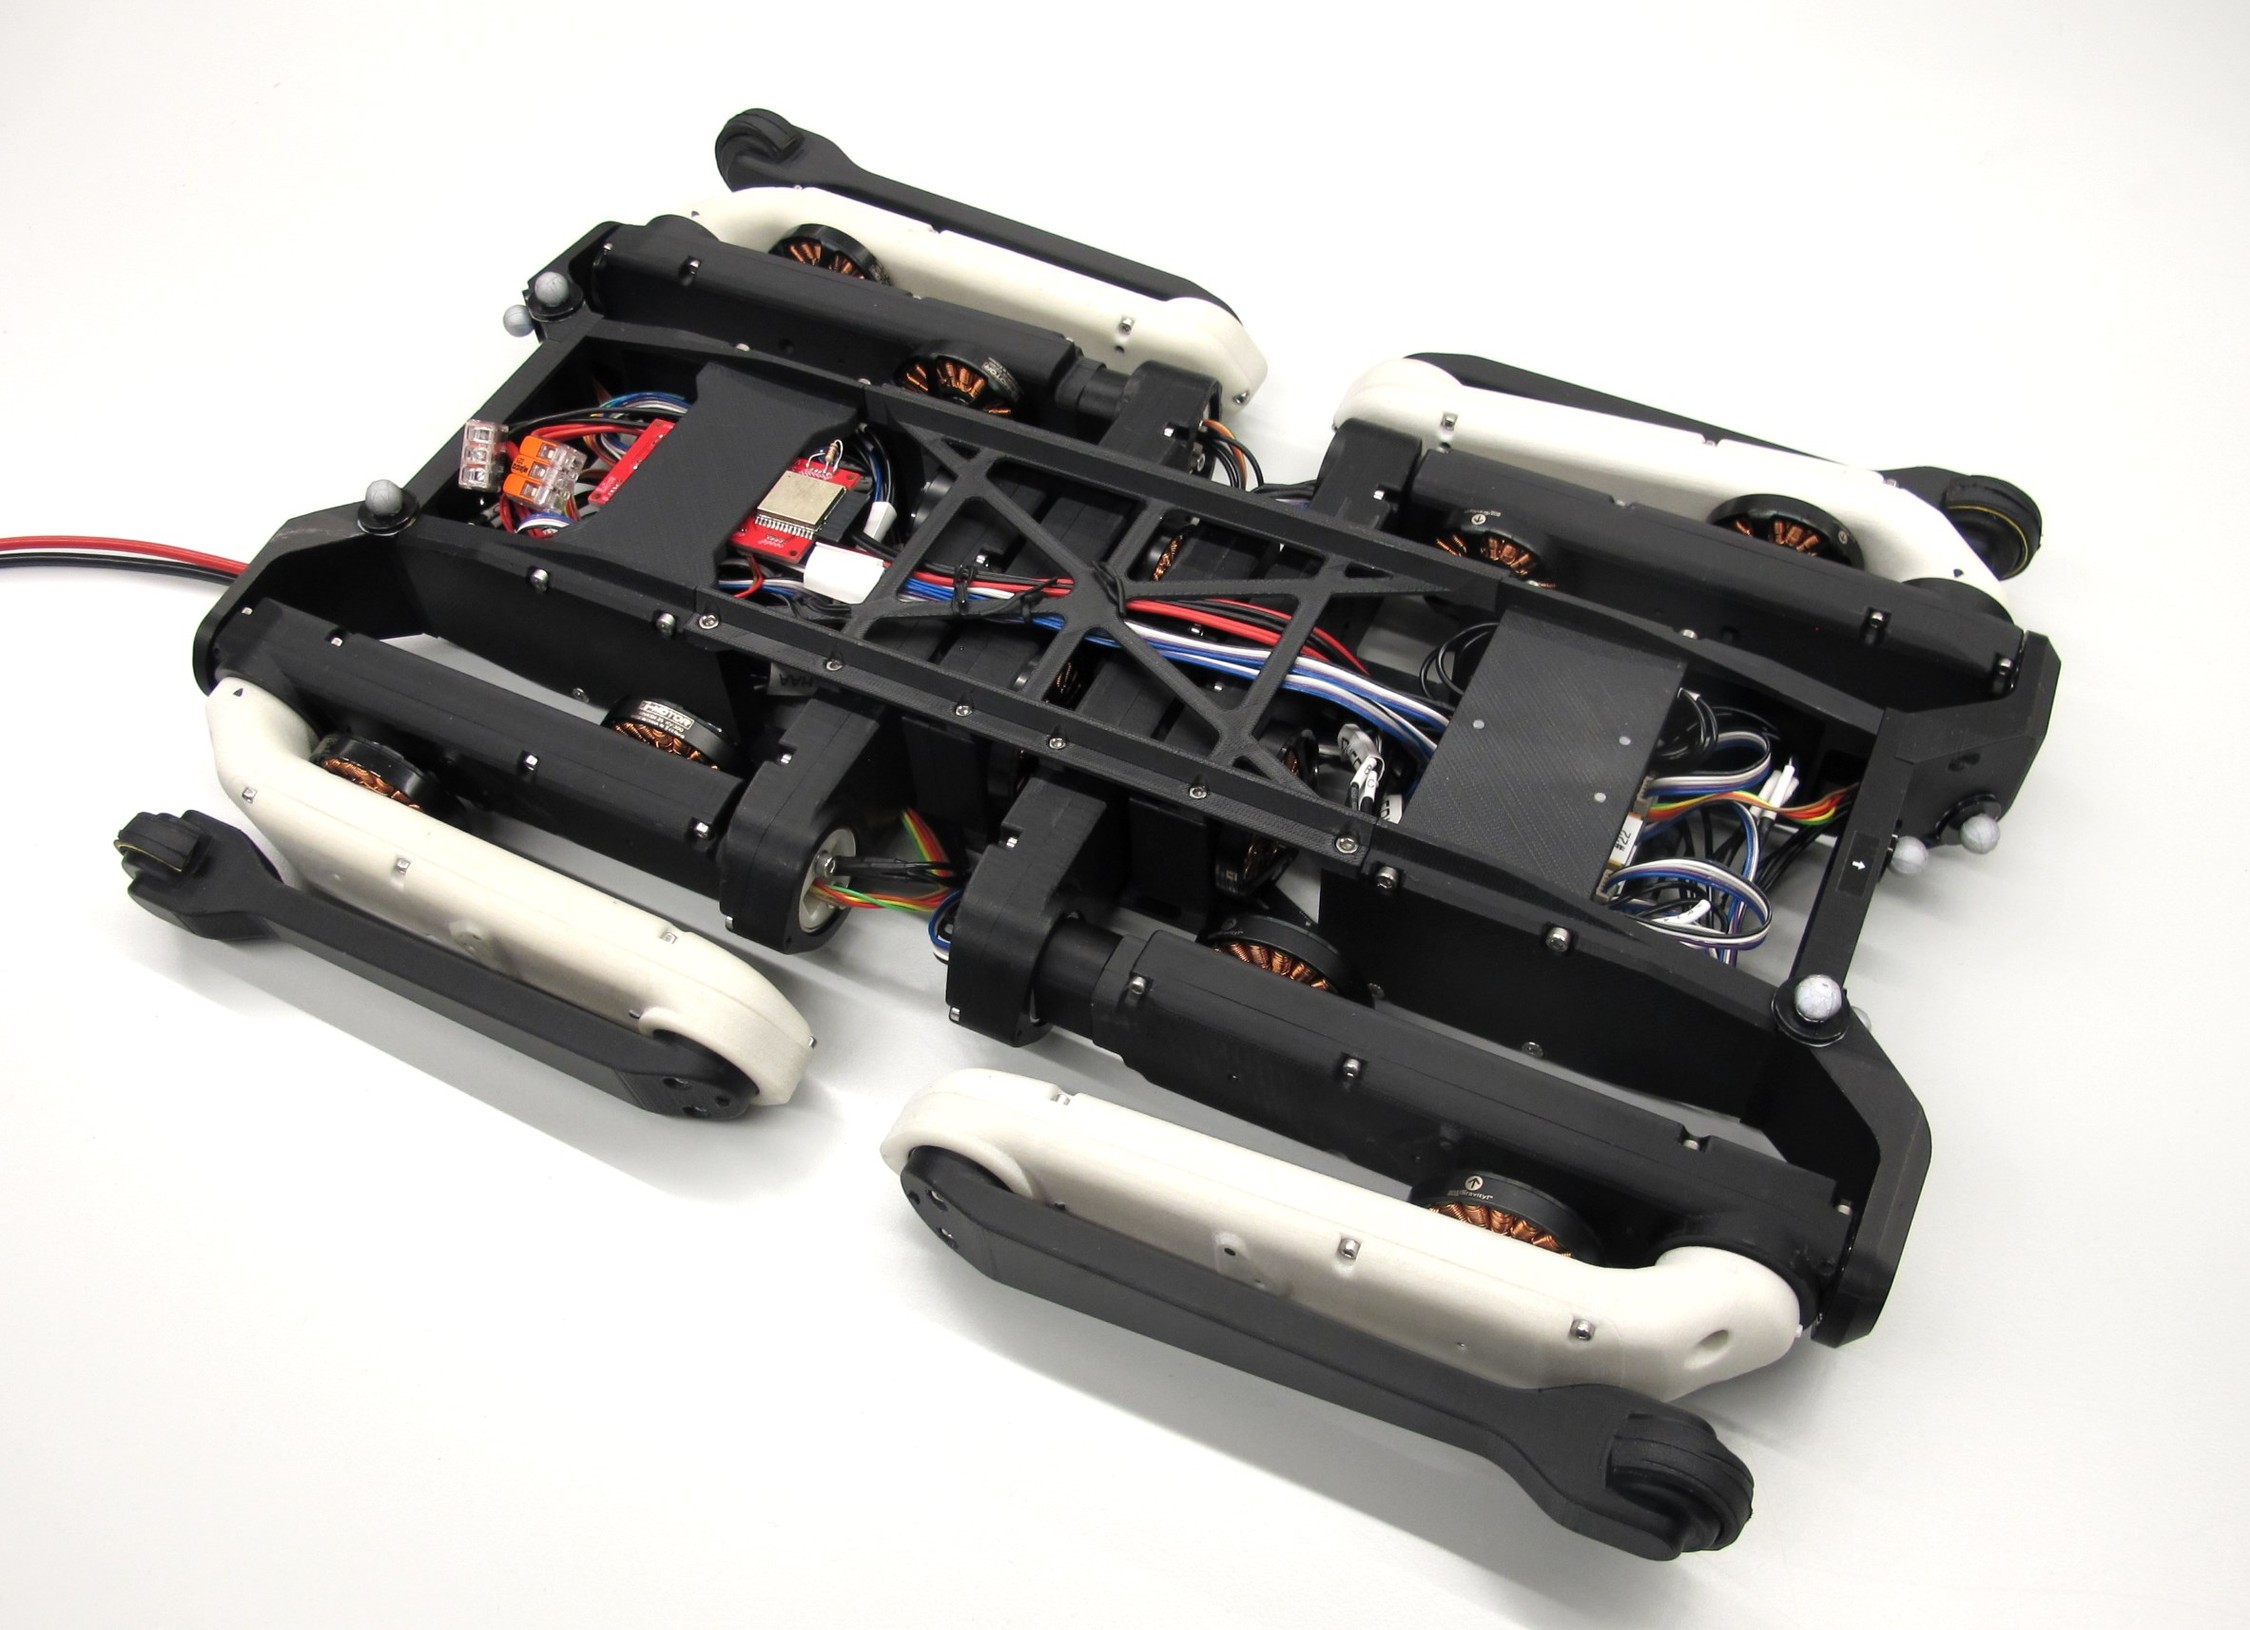
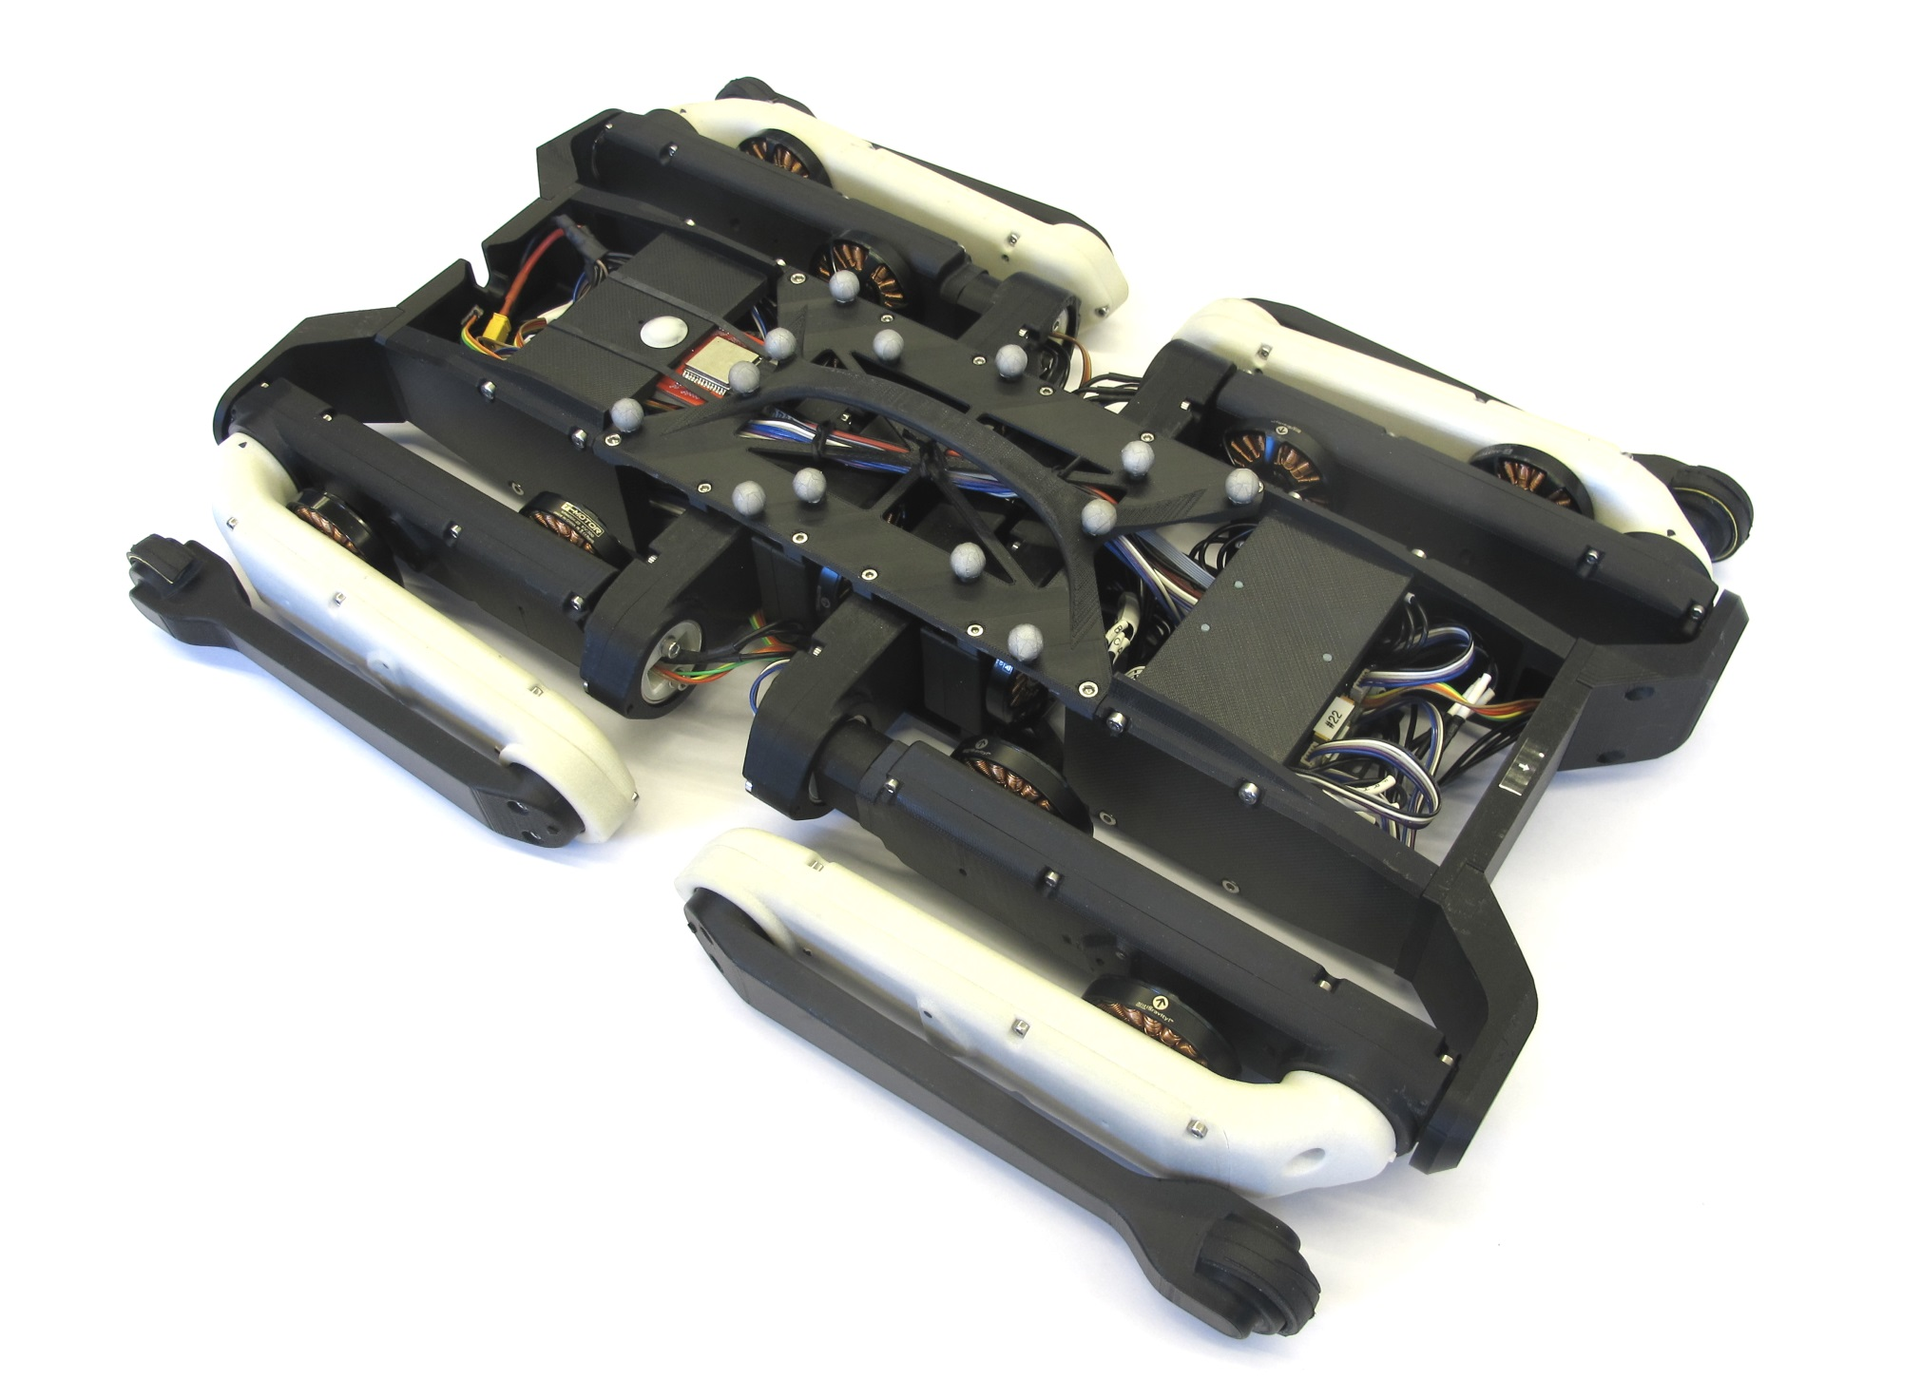
Updating pictures

diff --git a/mechanics/quadruped_robot_12dof_v1/README.md b/mechanics/quadruped_robot_12dof_v1/README.md
@@ -19,7 +19,8 @@
 ## Pictures
 <img src="images/solo_12_mechanics_1.jpg" width="400"><br>*12dof quadruped without electronics*<br>  
 <img src="images/solo12_1.jpg" width="400"><br>*12dof quadruped fully assembled*<br>  
-<img src="images/solo12_2.jpg" width="400"><br>*12dof quadruped top view*<br>  
+<img src="images/solo12_2.jpg" width="400"><br>*12dof quadruped top view*<br>
+<img src="images/solo12_4.jpg" width="400"><br>*12dof quadruped front view*<br>  
 <img src="images/solo12_3.jpg" width="400"><br>*12dof quadruped - legs folded for transport*<br>  
 
 ## 3D Printed Parts
